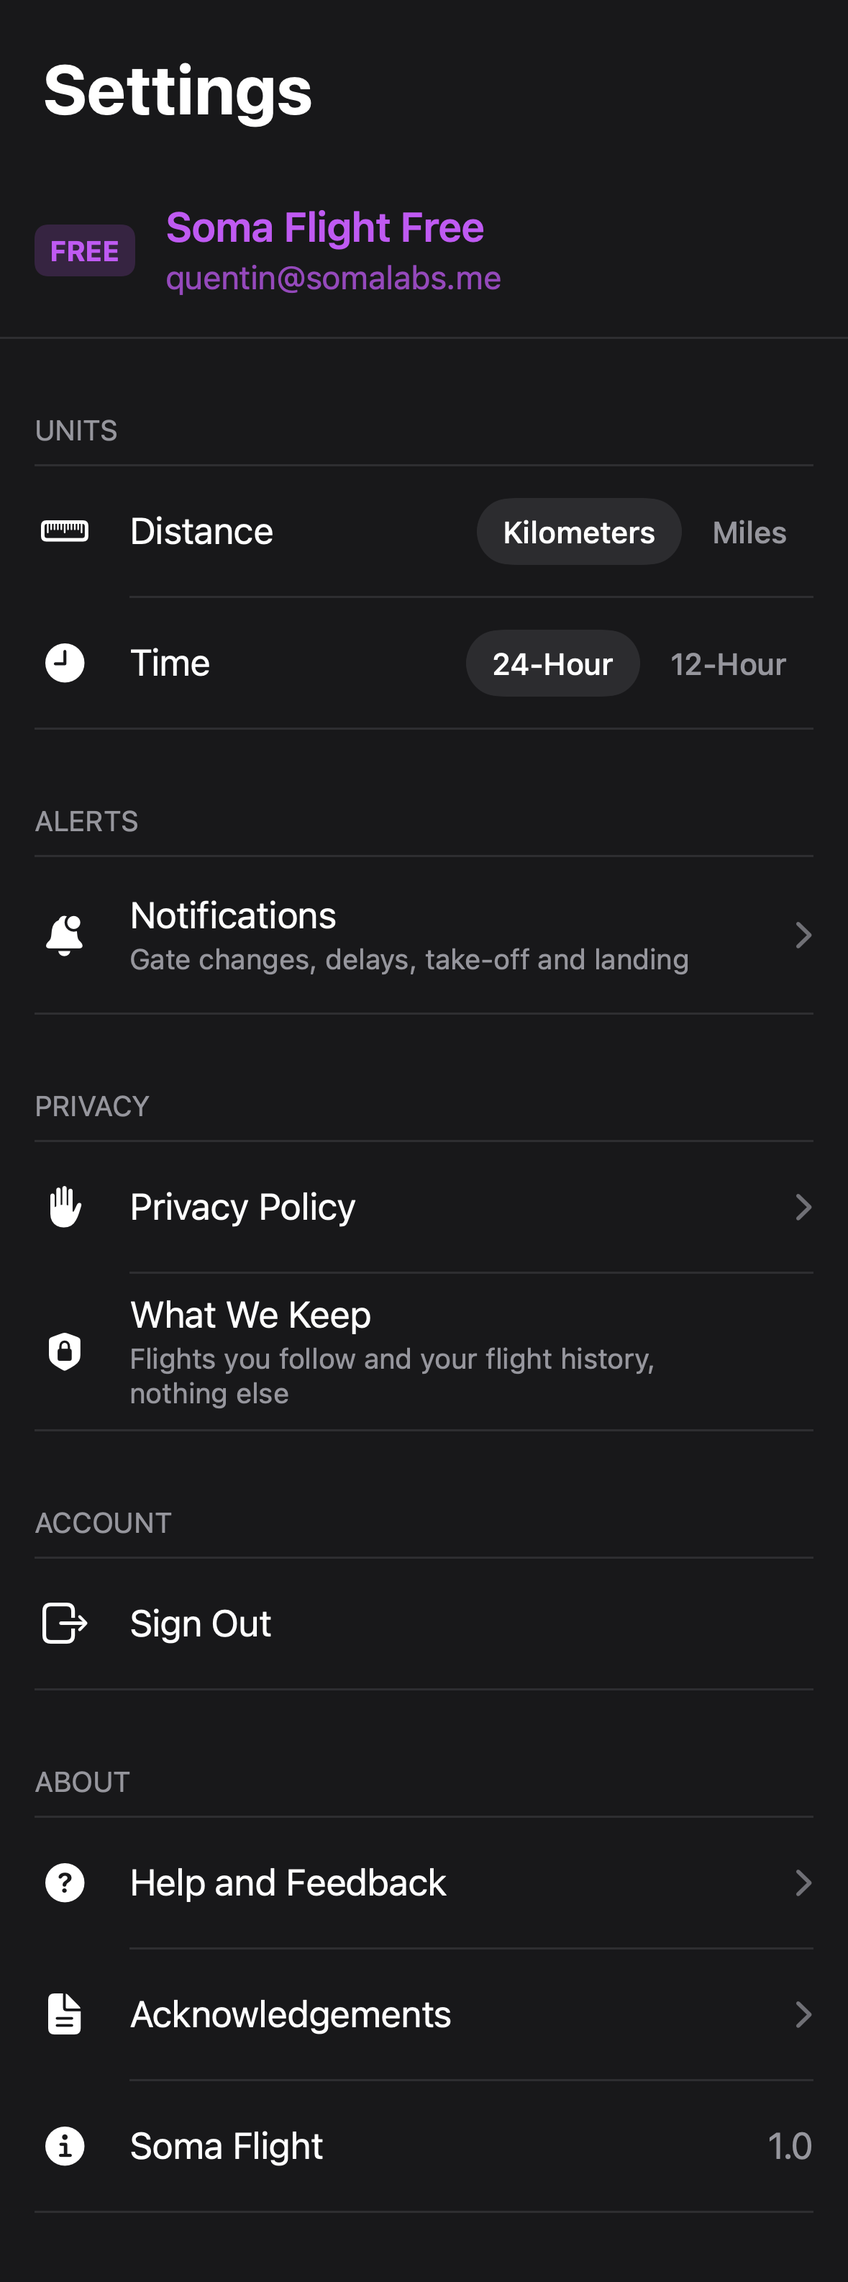
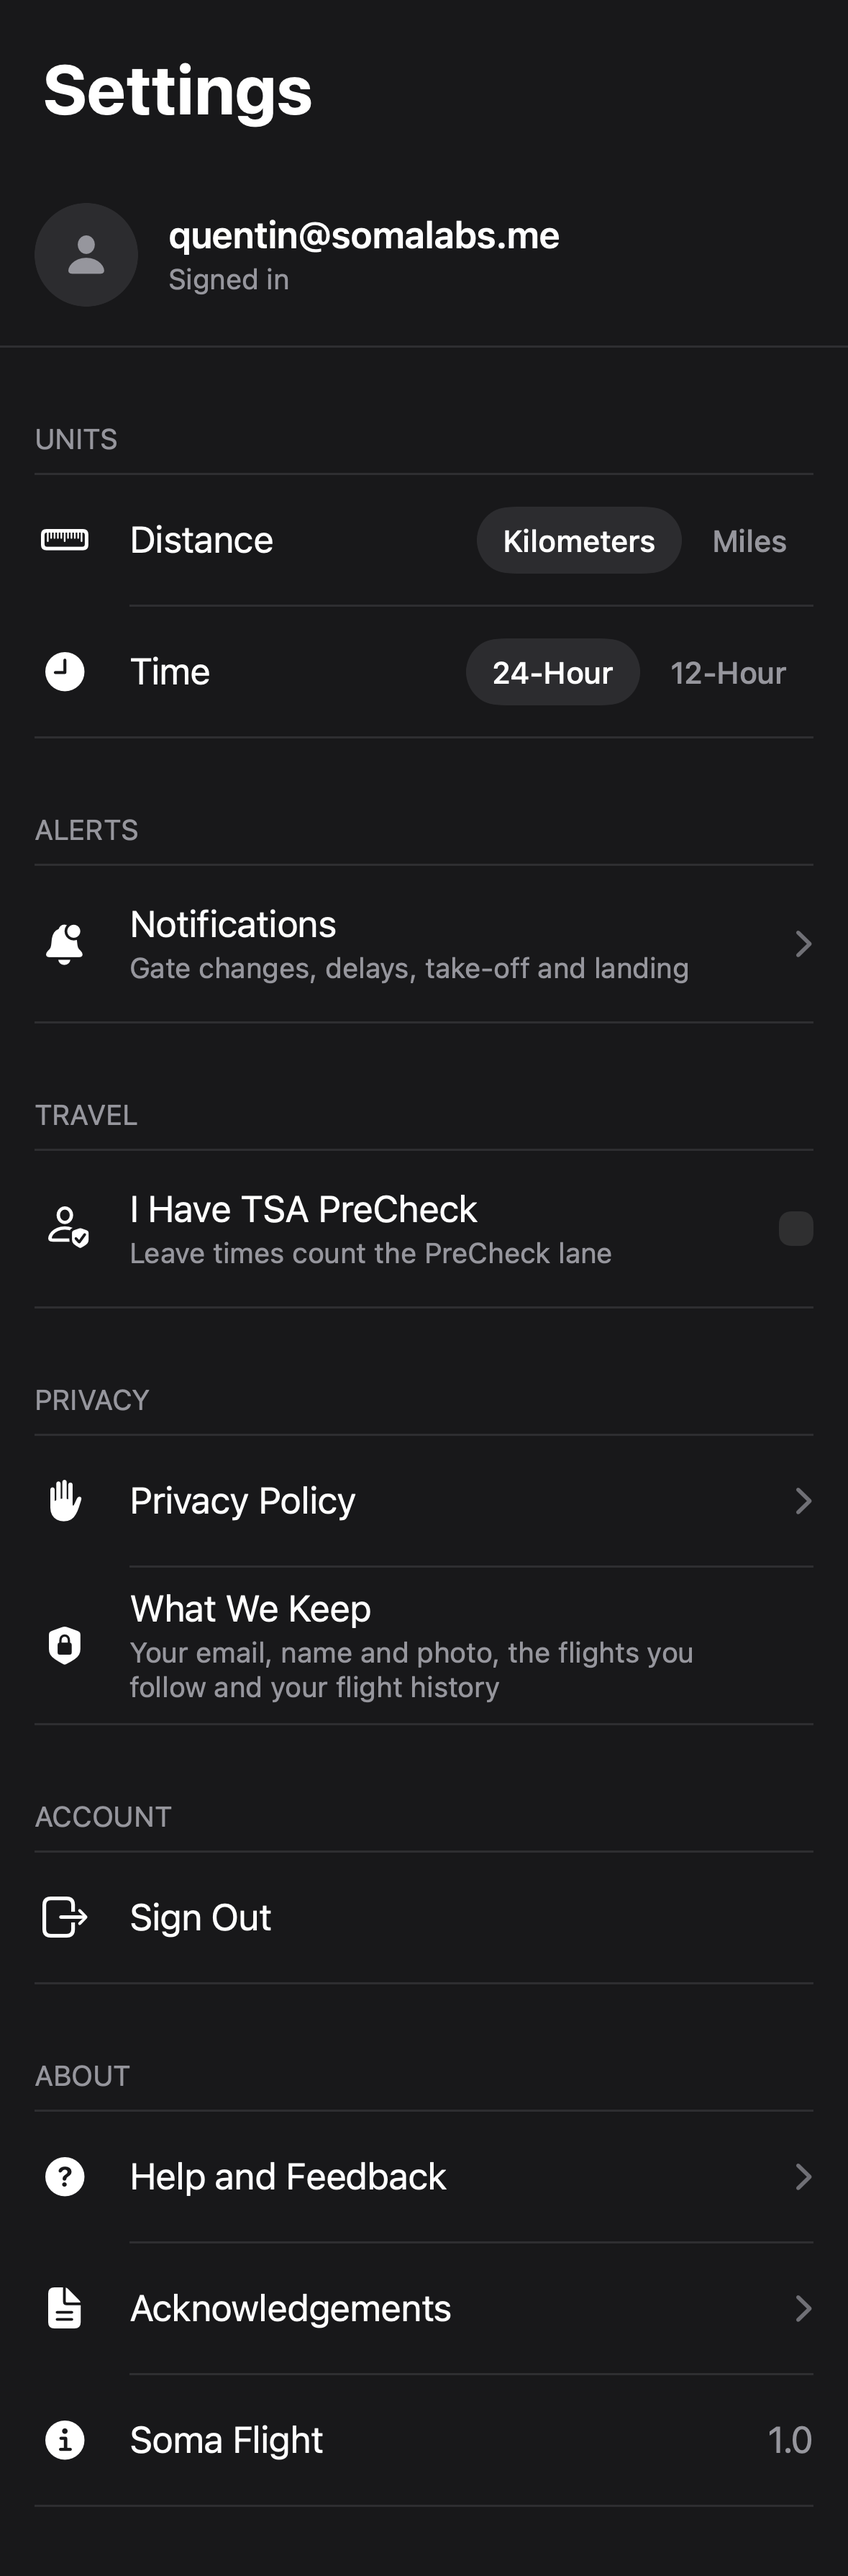
settings: drop the Free/Pro plan, show who is signed in
There is no paid version. The account header now shows the profile photo,
name and email (or the email alone, or Sign In) instead of a FREE/PRO badge
and "Soma Flight Free". Plan and UserSession.plan are gone from the app; the
profiles.plan column is no longer read.

Also: the follow limit banner no longer says "Free accounts", and What We
Keep and the Mac data note now list the name and photo kept with the
account and say the location stays on the device.

diff --git a/Packages/FlightKit/Sources/FlightKit/UI/Screens/SettingsView.swift b/Packages/FlightKit/Sources/FlightKit/UI/Screens/SettingsView.swift
@@ -156,11 +156,9 @@ public struct SettingsView: View {
                     .scaledPadding(.horizontal, 16)
                     .scaledPadding(.bottom, 12)
             }
-            AccountRow(session: session.session, onSignIn: onSignIn)
+            AccountRow(session: session.session, profile: profile, onSignIn: onSignIn)
             Hairline()
-            if let profile, profile.owner != nil {
-                group("Profile") { ProfileSummaryRow(store: profile) }
-            } else if let friends {
+            if profile?.owner == nil, let friends {
                 group("Profile") { ProfileRows(store: friends) }
             }
 
@@ -205,7 +203,7 @@ public struct SettingsView: View {
             group("Privacy") {
                 SettingsRow(icon: "hand.raised.fill", title: "Privacy Policy", action: { openURL(Self.privacyURL) }) { RowChevron() }
                 SettingsRow(icon: "lock.shield.fill", title: "What We Keep",
-                            subtitle: "Flights you follow and your flight history, nothing else", last: true) { EmptyView() }
+                            subtitle: "Your email, name and photo, the flights you follow and your flight history", last: true) { EmptyView() }
             }
             if let history {
                 group("Your Data") {
@@ -339,51 +337,50 @@ public struct SettingsView: View {
 
 // MARK: - Rows
 
-/// Plan badge and the signed-in account.
+/// Who is signed in: with a profile, the photo and name over the account's email, tapping through to the
+/// editor; without one, the email alone; signed out, the Sign In button.
 struct AccountRow: View {
     var session: UserSession?
+    var profile: ProfileStore?
     var onSignIn: (() -> Void)?
 
     var body: some View {
-        HStack(spacing: 14) {
-            let pro = session?.plan == .pro
-            if session != nil {
-                Text(pro ? "PRO" : "FREE")
-                    .scaledFont(13, weight: .bold)
-                    .foregroundStyle(Theme.diverted)
-                    .scaledPadding(.horizontal, 7)
-                    .scaledPadding(.vertical, 4)
-                    .background(RoundedRectangle(cornerRadius: 6, style: .continuous).fill(Theme.diverted.opacity(0.18)))
+        if let session, let profile, profile.owner != nil {
+            ProfileSummaryRow(store: profile, detail: Self.detail(session))
+                .scaledPadding(.vertical, 6)
+        } else {
+            HStack(spacing: 14) {
+                UserAvatar(photo: nil, name: nil, id: session?.userId, size: 48)
+                VStack(alignment: .leading, spacing: 2) {
+                    Text(session == nil ? "Not signed in" : session?.email ?? "Signed in")
+                        .scaledFont(17, weight: .semibold)
+                        .foregroundStyle(Theme.primary)
+                        .lineLimit(1)
+                    Text(session.map { $0.email == nil ? "Signed in with Apple" : "Signed in" }
+                         ?? "Sign in to keep your flights on every device")
+                        .scaledFont(13)
+                        .foregroundStyle(Theme.secondary)
+                        .lineLimit(2)
+                }
+                Spacer(minLength: 0)
+                if session == nil, let onSignIn {
+                    Button("Sign In", action: onSignIn)
+                        .scaledFont(15, weight: .semibold)
+                        .foregroundStyle(.white)
+                        .scaledPadding(.horizontal, 14)
+                        .scaledPadding(.vertical, 8)
+                        .background(Capsule().fill(Theme.accent))
+                        .buttonStyle(.plain)
+                }
             }
-            VStack(alignment: .leading, spacing: 2) {
-                Text(session == nil ? "Not signed in" : pro ? "Soma Flight Pro" : "Soma Flight Free")
-                    .scaledFont(19, weight: .semibold)
-                    .foregroundStyle(Theme.diverted)
-                Text(detail)
-                    .scaledFont(15)
-                    .foregroundStyle(Theme.diverted.opacity(0.75))
-                    .lineLimit(2)
-            }
-            Spacer(minLength: 0)
-            if session == nil, let onSignIn {
-                Button("Sign In", action: onSignIn)
-                    .scaledFont(15, weight: .semibold)
-                    .foregroundStyle(.white)
-                    .scaledPadding(.horizontal, 14)
-                    .scaledPadding(.vertical, 8)
-                    .background(Capsule().fill(Theme.accent))
-                    .buttonStyle(.plain)
-            }
+            .scaledPadding(.horizontal, 16)
+            .scaledPadding(.vertical, 18)
+            .accessibilityElement(children: .combine)
         }
-        .scaledPadding(.horizontal, 16)
-        .scaledPadding(.vertical, 18)
-        .accessibilityElement(children: .combine)
     }
 
-    private var detail: String {
-        guard let session else { return "Sign in to keep your flights on every device" }
-        return session.email ?? "Signed in with Apple"
-    }
+    /// The line under the name: the account's email, or how it signed in when Apple hid the email.
+    static func detail(_ session: UserSession) -> String { session.email ?? "Signed in with Apple" }
 }
 
 /// A history export row: opens the share sheet with `soma-flight-history-YYYY-MM-DD.<ext>`, built on
@@ -419,7 +416,7 @@ struct MinimalDataNote: View {
                 Text("Soma Flight keeps minimal data")
                     .scaledFont(15, weight: .semibold)
                     .foregroundStyle(Theme.onTime)
-                Text("Your email, the flights you follow and your flight history. No location, no contacts, no tracking. Exports are built on this device.")
+                Text("Your email, your name and photo, the flights you follow and your flight history. Your location stays on this device. No contacts, no tracking. Exports are built on this device.")
                     .scaledFont(14)
                     .foregroundStyle(Theme.primary.opacity(0.85))
                     .fixedSize(horizontal: false, vertical: true)
@@ -481,7 +478,7 @@ struct SettingsRow<Accessory: View>: View {
 // MARK: - Previews
 
 struct SettingsPreview: View {
-    var plan: Plan? = .free
+    var signedIn = true
     var failDelete = false
     var full = false
     @State private var units = Units()
@@ -500,21 +497,21 @@ struct SettingsPreview: View {
                 ProgressView()
             }
         }
-        .task { session = Self.makeSession(plan: plan, failDelete: failDelete) }
+        .task { session = Self.makeSession(signedIn: signedIn, failDelete: failDelete) }
     }
 
-    @MainActor static func makeSession(plan: Plan?, failDelete: Bool) -> SessionStore {
-        let s = SessionStore(auth: FakeAuthService(plan: plan ?? .free))
-        let user = plan.map { UserSession(userId: UUID(uuidString: "5a1e0000-0000-4000-8000-000000000001")!,
-                                           email: "quentin@somalabs.me", plan: $0) }
+    @MainActor static func makeSession(signedIn: Bool, failDelete: Bool) -> SessionStore {
+        let s = SessionStore(auth: FakeAuthService())
+        let user = signedIn ? UserSession(userId: UUID(uuidString: "5a1e0000-0000-4000-8000-000000000001")!,
+                                          email: "quentin@somalabs.me") : nil
         s.seed(session: user, error: failDelete ? .providerUnavailable : nil)
         return s
     }
 }
 
-#Preview("Free, dark") { SettingsPreview().preferredColorScheme(.dark) }
-#Preview("Pro, light, all rows") { SettingsPreview(plan: .pro, full: true).preferredColorScheme(.light) }
-#Preview("Signed out") { SettingsPreview(plan: nil).preferredColorScheme(.dark) }
+#Preview("Signed in, dark") { SettingsPreview().preferredColorScheme(.dark) }
+#Preview("Signed in, light, all rows") { SettingsPreview(full: true).preferredColorScheme(.light) }
+#Preview("Signed out") { SettingsPreview(signedIn: false).preferredColorScheme(.dark) }
 #Preview("Delete failed") { SettingsPreview(failDelete: true, full: true).preferredColorScheme(.dark) }
 #endif
 

diff --git a/Packages/FlightKit/Sources/FlightKit/Services/Supabase/SupabaseAuthService.swift b/Packages/FlightKit/Sources/FlightKit/Services/Supabase/SupabaseAuthService.swift
@@ -16,39 +16,19 @@ public final class SupabaseAuthService: AuthService {
 
     private var auth: AuthClient { backend.client.auth }
 
-    private struct ProfileRow: Decodable { var plan: Plan }
-
-    /// The account's plan from `profiles`; nil when it cannot be read (offline), so it is read again later.
-    private func plan(for user: UUID) async -> Plan? {
-        let id = user.uuidString.lowercased()
-        guard let data = try? await backend.rows({ $0.from("profiles").select("plan").eq("user_id", value: id).limit(1) }),
-              let row = try? FlightJSON.decoder.decode([ProfileRow].self, from: data).first else { return nil }
-        return row.plan
-    }
-
     /// Follows Supabase's auth state. The stored session is reported at once, expired or not: it is
     /// refreshed in the background, and reporting nobody while offline would hand the device's saved
-    /// flights to nobody. The plan is read once per user, once a read succeeds.
+    /// flights to nobody.
     public var session: AsyncStream<UserSession?> {
         let (stream, continuation) = AsyncStream<UserSession?>.makeStream(bufferingPolicy: .bufferingNewest(1))
         let changes = auth.authStateChanges
         let task = Task { [weak self] in
-            var plans: [UUID: Plan] = [:]
             var last: UserSession??
             for await (_, session) in changes {
-                guard let self else { break }
+                guard self != nil else { break }
                 var next: UserSession?
                 if let user = session?.user {
-                    // A plan that could not be read shows as free and is read again on the next auth event
-                    // (token refreshes come at least hourly).
-                    let plan: Plan
-                    if let known = plans[user.id] { plan = known } else if let read = await self.plan(for: user.id) {
-                        plan = read
-                        plans[user.id] = read
-                    } else {
-                        plan = .free
-                    }
-                    next = UserSession(userId: user.id, email: user.email, plan: plan)
+                    next = UserSession(userId: user.id, email: user.email)
                 }
                 if last != .some(next) {
                     last = .some(next)

diff --git a/Packages/FlightKit/Sources/FlightKit/Services/Fakes/FakeServices.swift b/Packages/FlightKit/Sources/FlightKit/Services/Fakes/FakeServices.swift
@@ -295,7 +295,6 @@ public actor FakeAirportService: AirportService {
 
 public actor FakeAuthService: AuthService {
     public var nextError: APIError?
-    private var plan: Plan
     private let state = SessionState()
 
     private final class SessionState: Sendable {
@@ -318,10 +317,9 @@ public actor FakeAuthService: AuthService {
         }
     }
 
-    public init(plan: Plan = .free) { self.plan = plan }
+    public init() {}
 
     public func setNextError(_ error: APIError?) { nextError = error }
-    public func setPlan(_ plan: Plan) { self.plan = plan }
 
     private func check() throws(APIError) {
         if let e = nextError { nextError = nil; throw e }
@@ -335,17 +333,17 @@ public actor FakeAuthService: AuthService {
     public func signInWithApple(idToken: String, nonce: String, fullName: PersonNameComponents?) async throws(APIError) {
         try check()
         appleName = fullName
-        state.set(UserSession(userId: UUID(uuidString: "5a1e0000-0000-4000-8000-000000000001")!, email: nil, plan: plan))
+        state.set(UserSession(userId: UUID(uuidString: "5a1e0000-0000-4000-8000-000000000001")!, email: nil))
     }
 
     public func signInWithEmail(_ email: String) async throws(APIError) {
         try check()
-        state.set(UserSession(userId: UUID(uuidString: "5a1e0000-0000-4000-8000-000000000002")!, email: email, plan: plan))
+        state.set(UserSession(userId: UUID(uuidString: "5a1e0000-0000-4000-8000-000000000002")!, email: email))
     }
 
     public func signInWithGoogle() async throws(APIError) {
         try check()
-        state.set(UserSession(userId: UUID(uuidString: "5a1e0000-0000-4000-8000-000000000003")!, email: "noa.levi@gmail.com", plan: plan))
+        state.set(UserSession(userId: UUID(uuidString: "5a1e0000-0000-4000-8000-000000000003")!, email: "noa.levi@gmail.com"))
     }
 
     public func signOut() async { state.set(nil) }

diff --git a/Packages/FlightKit/Sources/FlightKit/UI/Screens/Profile/ProfileSummaryRow.swift b/Packages/FlightKit/Sources/FlightKit/UI/Screens/Profile/ProfileSummaryRow.swift
@@ -1,9 +1,11 @@
 import SwiftUI
 
-/// Settings > Profile: the photo and the name friends see, opening the profile editor (the onboarding
-/// screen in edit mode).
+/// Settings' account header: the photo and the name friends see over the account's email, opening the
+/// profile editor (the onboarding screen in edit mode).
 struct ProfileSummaryRow: View {
     var store: ProfileStore
+    /// The grey line under the name (the account's email).
+    var detail: String
     @State private var editing = false
 
     var body: some View {
@@ -16,7 +18,7 @@ struct ProfileSummaryRow: View {
                         .scaledFont(17, weight: name.isEmpty ? .regular : .semibold)
                         .foregroundStyle(name.isEmpty ? Theme.accent : Theme.primary)
                         .lineLimit(1)
-                    Text("Only friends you accept see this").scaledFont(13).foregroundStyle(Theme.secondary)
+                    Text(detail).scaledFont(13).foregroundStyle(Theme.secondary).lineLimit(1)
                 }
                 Spacer(minLength: 8)
                 Image(systemName: "chevron.right")

diff --git a/Packages/FlightKit/Tests/FlightKitTests/FinalSnapshotTests.swift b/Packages/FlightKit/Tests/FlightKitTests/FinalSnapshotTests.swift
@@ -84,12 +84,12 @@ extension ComponentSnapshotTests {
     }
 
     @Test func finalSettingsAndSignIn() async throws {
-        let session = SettingsPreview.makeSession(plan: .free, failDelete: false)
+        let session = SettingsPreview.makeSession(signedIn: true, failDelete: false)
         try both("settings") {
             SettingsView(session: session, units: .constant(Units()), history: FakeHistoryService(), onDeleteAccount: { true },
                          scrolls: false, dataNote: false)
         }
-        let failed = SettingsPreview.makeSession(plan: .pro, failDelete: true)
+        let failed = SettingsPreview.makeSession(signedIn: true, failDelete: true)
         try both("settings-delete-failed", maxHeight: 400) {
             SettingsView(session: failed, units: .constant(Units(distance: .mi, clock: .h12)), history: FakeHistoryService(),
                          onDeleteAccount: { true }, scrolls: false, dataNote: false)

diff --git a/Packages/FlightKit/Tests/FlightKitTests/DelayColorTests.swift b/Packages/FlightKit/Tests/FlightKitTests/DelayColorTests.swift
@@ -33,7 +33,7 @@ import Testing
         #expect(APIError.providerUnavailable.message == "Flight data is temporarily unavailable. Showing the last update.")
         #expect(APIError.notFound.message == "No flight found. Check the number and date.")
         #expect(APIError.rateLimited.message == "Too many searches. Try again in a few minutes.")
-        #expect(APIError.planLimit.message == "Free accounts follow up to 3 flights at a time.")
+        #expect(APIError.planLimit.message == "You can follow up to 3 flights at a time.")
         #expect(APIError.unauthorized.message == "Please sign in again.")
         #expect(APIError.offline.message == "You're offline. Showing the last update.")
     }

diff --git a/Packages/FlightKit/Sources/FlightKit/UI/DelayColor.swift b/Packages/FlightKit/Sources/FlightKit/UI/DelayColor.swift
@@ -20,7 +20,7 @@ public extension APIError {
         case .notFound: "No flight found. Check the number and date."
         case .outOfWindow: "Flights can be searched from 10 days back to 2 days ahead. Pick another date."
         case .rateLimited: "Too many searches. Try again in a few minutes."
-        case .planLimit: "Free accounts follow up to 3 flights at a time."
+        case .planLimit: "You can follow up to 3 flights at a time."
         case .unauthorized: "Please sign in again."
         case .offline: "You're offline. Showing the last update."
         case .localData: "The flights saved on this device couldn't be cleared. Try again, or restart the app."

diff --git a/Packages/FlightKit/Tests/FlightKitTests/SupabaseIntegrationTests.swift b/Packages/FlightKit/Tests/FlightKitTests/SupabaseIntegrationTests.swift
@@ -40,9 +40,8 @@ struct SupabaseIntegrationTests {
         var signedIn: UserSession?
         for await s in sessions where s != nil { signedIn = s; break }
         let user = try #require(signedIn)
-        print("INTEGRATION signed in \(user.userId) plan=\(user.plan)")
+        print("INTEGRATION signed in \(user.userId)")
         #expect(user.email == email)
-        #expect(user.plan == .free)
 
         var failure: (any Error)?
         do { try await checks(auth: auth, flights: flights, airports: airports, history: history) } catch { failure = error }

diff --git a/Packages/FlightKit/Tests/FlightKitTests/ScreenReviewFixTests.swift b/Packages/FlightKit/Tests/FlightKitTests/ScreenReviewFixTests.swift
@@ -154,7 +154,7 @@ import Testing
     }
 
     @Test func settingsHidesRowsWithoutActions() async throws {
-        let session = SettingsPreview.makeSession(plan: .free, failDelete: false)
+        let session = SettingsPreview.makeSession(signedIn: true, failDelete: false)
         let units = Binding.constant(Units())
         let bare = try render(SettingsView(session: session, units: units, scrolls: false))
         let full = try render(SettingsView(session: session, units: units, history: FakeHistoryService(), onDeleteAccount: { true },

diff --git a/Packages/FlightKit/Sources/FlightKit/Services/AuthService.swift b/Packages/FlightKit/Sources/FlightKit/Services/AuthService.swift
@@ -1,16 +1,11 @@
 import Foundation
 
-public enum Plan: String, Sendable, Hashable, Codable {
-    case free, pro
-}
-
 public struct UserSession: Sendable, Equatable {
     public var userId: UUID
     public var email: String?
-    public var plan: Plan
 
-    public init(userId: UUID, email: String?, plan: Plan) {
-        self.userId = userId; self.email = email; self.plan = plan
+    public init(userId: UUID, email: String?) {
+        self.userId = userId; self.email = email
     }
 }
 

diff --git a/Packages/FlightKit/Tests/FlightKitTests/ScreenSnapshotTests.swift b/Packages/FlightKit/Tests/FlightKitTests/ScreenSnapshotTests.swift
@@ -168,7 +168,7 @@ extension ComponentSnapshotTests {
     }
 
     @Test func settingsAndSignIn() async throws {
-        let session = SettingsPreview.makeSession(plan: .free, failDelete: false)
+        let session = SettingsPreview.makeSession(signedIn: true, failDelete: false)
         #expect(session.session != nil)
         try screen("settings") {
             SettingsView(session: session, units: .constant(Units()), scrolls: false, dataNote: false)

diff --git a/Packages/FlightKit/Tests/FlightKitTests/SettingsReadinessTests.swift b/Packages/FlightKit/Tests/FlightKitTests/SettingsReadinessTests.swift
@@ -170,7 +170,7 @@ private final class SilentDeleteAuth: AuthService {
     let session: AsyncStream<UserSession?>
     init() {
         let (stream, cont) = AsyncStream<UserSession?>.makeStream()
-        cont.yield(UserSession(userId: UUID(), email: "a@b.c", plan: .free))
+        cont.yield(UserSession(userId: UUID(), email: "a@b.c"))
         session = stream
         // The continuation is dropped on purpose: no further event ever arrives.
     }
